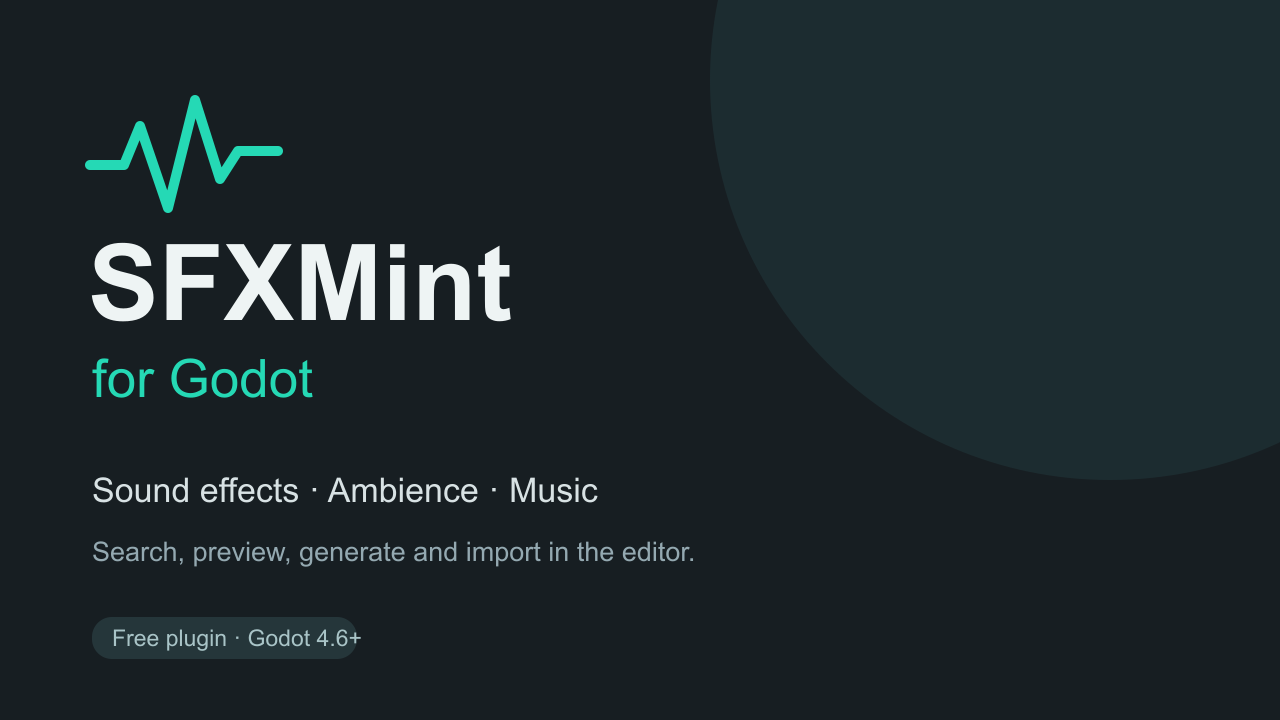
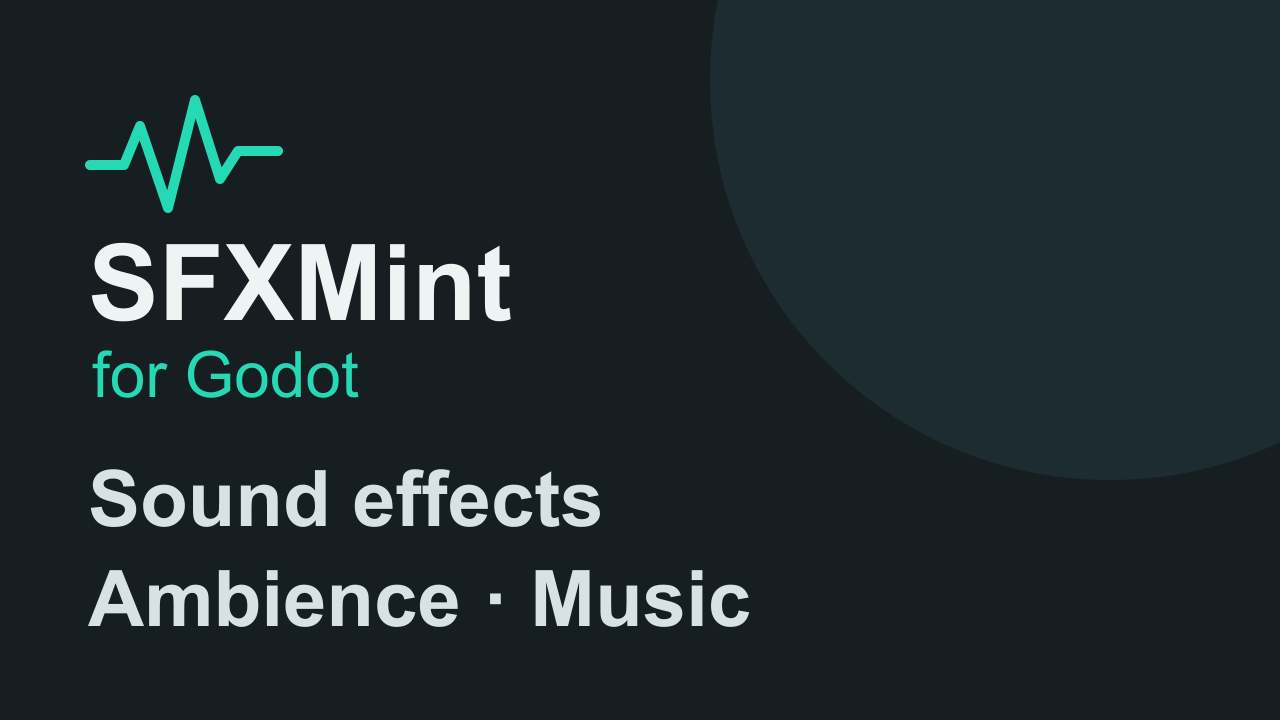
fix: release binary-free Godot 0.2.3 packages

Changed region(s): [[0.0625, 0.6417, 0.5938, 0.9167], [0.0625, 0.4889, 0.2812, 0.55]]

diff --git a/scripts/test_package.py b/scripts/test_package.py
@@ -20,8 +20,15 @@ with zipfile.ZipFile(ROOT/f'dist/sfxmint-godot-{version}-plugin.zip') as z:
     assert 'addons/sfxmint/plugin.cfg' in z.namelist()
     assert 'addons/sfxmint/README.md' in z.namelist()
     assert all(n.startswith('addons/sfxmint/') for n in z.namelist()), 'plugin must not install files over a project root'
-    assert len([n for n in z.namelist() if '/bin/sfxmint-credentials-' in n]) == 5
+    assert not any('/bin/' in n for n in z.namelist())
     assert z.read('addons/sfxmint/panel.gd') == (ROOT/'addons/sfxmint/panel.gd').read_bytes()
+for kind in ['plugin', 'example']:
+    with zipfile.ZipFile(ROOT/f'dist/sfxmint-godot-{version}-{kind}.zip') as z:
+        for entry in z.infolist():
+            assert not ((entry.external_attr >> 16) & 0o111), entry.filename
+            assert Path(entry.filename).suffix.lower() not in {'.exe', '.dll', '.so', '.dylib', '.a', '.o', '.wasm', '.pck'}, entry.filename
+            assert not z.read(entry)[:4] in {b'\x7fELF', b'\xcf\xfa\xed\xfe', b'\xce\xfa\xed\xfe', b'\xfe\xed\xfa\xcf', b'\xfe\xed\xfa\xce', b'\xca\xfe\xba\xbe', b'\xbe\xba\xfe\xca', b'\x00asm'}, entry.filename
+            assert not z.read(entry).startswith(b'MZ'), entry.filename
 with tempfile.TemporaryDirectory(prefix='sfxmint-plugin-install-') as folder:
     target = Path(folder)
     with zipfile.ZipFile(ROOT/f'dist/sfxmint-godot-{version}-plugin.zip') as z:
@@ -45,4 +52,4 @@ with tempfile.TemporaryDirectory(prefix='sfxmint-zip-install-') as folder:
         print(r.stdout)
         assert r.returncode == 0 and 'SCRIPT ERROR:' not in r.stdout and 'Parse Error:' not in r.stdout
         if args[0] == '--script': assert 'PACKAGED OFFLINE DEMO: PASS' in r.stdout
-print('PACKAGE INSTALL RESULT: PASS; five helpers included; clean import; demo plays after addon removal')
+print('PACKAGE INSTALL RESULT: PASS; no precompiled binaries; clean import; demo plays after addon removal')

diff --git a/scripts/package.py b/scripts/package.py
@@ -11,24 +11,20 @@ OUT = ROOT/'dist'
 config = configparser.ConfigParser()
 config.read(ROOT/'addons/sfxmint/plugin.cfg')
 VERSION = config['plugin']['version'].strip('"')
-REQUIRED = ['macos-arm64', 'macos-x86_64', 'windows-x86_64.exe', 'linux-x86_64', 'linux-arm64']
 
 def put(z, src, name):
     info = ZipInfo(name, (2026, 10, 23, 0, 0, 0))
     info.compress_type = ZIP_DEFLATED
     info.create_system = 3
-    mode = 0o755 if src.name.startswith('sfxmint-credentials-') else 0o644
-    info.external_attr = (0o100000 | mode) << 16
+    info.external_attr = 0o100644 << 16
     data = src.read_bytes()
     if name == "project.godot":
         data = data.replace(b'"4.7"', b'"4.6"')
     z.writestr(info, data)
 
-files = [(p, p.relative_to(ROOT).as_posix()) for p in sorted((ROOT/'addons/sfxmint').rglob('*')) if p.is_file() and (p.suffix in ['.gd', '.uid', '.cfg', '.md', '.txt', '.png'] or p.name == '.gdignore' or p.name.startswith('sfxmint-credentials-'))]
-for suffix in REQUIRED:
-    binary = ROOT/'addons/sfxmint/bin'/('sfxmint-credentials-'+suffix)
-    if not binary.is_file():
-        raise SystemExit(f'Missing required binary: {binary.name}. Build it before packaging.')
+# Asset Store downloads must not bundle precompiled programs, even when helpers
+# have been built locally. Ship only the addon's source, notices and logo.
+files = [(p, p.relative_to(ROOT).as_posix()) for p in sorted((ROOT/'addons/sfxmint').rglob('*')) if p.is_file() and 'bin' not in p.relative_to(ROOT/'addons/sfxmint').parts and p.suffix in ['.gd', '.uid', '.cfg', '.md', '.txt', '.png']]
 for name in ['README.md', 'LICENSE', 'THIRD_PARTY_NOTICES.txt', 'addons/sfxmint/README.md']:
     if not (ROOT/name).is_file():
         raise SystemExit(f'Missing documentation: {name}')

diff --git a/scripts/test_editor.py b/scripts/test_editor.py
@@ -4,13 +4,18 @@ import argparse, os, pathlib, shutil, subprocess, tempfile, zipfile
 ROOT = pathlib.Path(__file__).resolve().parents[1]
 p = argparse.ArgumentParser()
 p.add_argument('--godot', required=True)
+p.add_argument('--archive', type=pathlib.Path, help='Test the delivered plugin ZIP instead of local addon files.')
 a = p.parse_args()
 ART = ROOT/'tests/artifacts'
 ART.mkdir(exist_ok=True)
 env = dict(os.environ, SFXMINT_TEST_ORIGIN='http://127.0.0.1:8797')
 with tempfile.TemporaryDirectory(prefix='sfxmint-editor-') as folder:
     target = pathlib.Path(folder)
-    shutil.copytree(ROOT/'addons', target/'addons')
+    if a.archive:
+        with zipfile.ZipFile(a.archive) as archive:
+            archive.extractall(target)
+    else:
+        shutil.copytree(ROOT/'addons', target/'addons')
     shutil.copytree(ROOT/'example', target/'example', ignore=shutil.ignore_patterns('.godot','addons','audio'))
     project = (ROOT/'project.godot').read_text().replace('"4.7"', '"4.6"').replace('"res://addons/sfxmint/plugin.cfg")','"res://addons/sfxmint/plugin.cfg", "res://addons/smoke/plugin.cfg")')
     (target/'project.godot').write_text(project)

diff --git a/scripts/build_helpers.py b/scripts/build_helpers.py
@@ -22,6 +22,7 @@ triple = a.target + ('.2.28' if a.zig and 'linux' in a.target else '')
 subprocess.run(['cargo', 'zigbuild' if a.zig else 'build', '--release', '--locked', '--manifest-path', str(ROOT/'credential-helper/Cargo.toml'), '--target', triple], check=True)
 source = ROOT/'credential-helper/target'/a.target/'release'/('sfxmint-credentials.exe' if 'windows' in a.target else 'sfxmint-credentials')
 dest = ROOT/'addons/sfxmint/bin'/('sfxmint-credentials-'+TARGETS[a.target])
+dest.parent.mkdir(parents=True, exist_ok=True)
 shutil.copy2(source, dest)
 dest.chmod(0o755)
 print(dest)

diff --git a/README.md b/README.md
@@ -8,7 +8,7 @@ Search, audition, generate and import audio without leaving the Godot editor. A 
 
 ## Install
 
-1. Download **sfxmint-godot-0.2.2-plugin.zip** from [Releases](https://github.com/flreey/sfxmint-godot/releases/latest).
+1. Download **sfxmint-godot-0.2.3-plugin.zip** from [Releases](https://github.com/flreey/sfxmint-godot/releases/latest).
 2. Extract it into your Godot project so `addons/sfxmint/plugin.cfg` exists. You can also import the ZIP using Godot's asset installation UI.
 3. Enable **Project → Project Settings → Plugins → SFXMint**.
 4. Open the **SFXMint** bottom dock and drag its upper edge to give it enough space.
@@ -37,9 +37,9 @@ Compare the returned candidates with one preview player, star favorites, choose 
 
 ## Accounts and privacy
 
-**Remember on this device** uses a small bundled credential helper to access macOS Keychain, Windows Credential Manager or Linux Secret Service. Keys are never placed in project files. Uncheck Remember for a session-only connection. You can also supply `SFXMINT_API_KEY` through the Godot process environment.
+Release ZIPs contain no precompiled programs. Account connections last for the current editor session; **Remember on this device** is disabled when no locally built credential helper is installed. Keys are never placed in project files. You can also supply `SFXMINT_API_KEY` through the Godot process environment.
 
-Helpers run only inside the editor, use standard input/output, and have no network behavior. Their Rust source and locked dependencies are in `credential-helper/`. Unsupported platforms or unavailable credential stores fall back to a session-only connection. Helpers are excluded from game exports.
+Developers can optionally build a credential helper from the included Rust source for macOS Keychain, Windows Credential Manager or Linux Secret Service. Helpers run only inside the editor, use standard input/output, and have no network behavior. Their Rust source and locked dependencies are in `credential-helper/`. Unsupported platforms or unavailable credential stores fall back to a session-only connection. Helpers are excluded from game exports.
 
 Search descriptions are sent to SFXMint for matching. Generation descriptions and explicitly uploaded/recorded source audio are sent to SFXMint when you request those actions. API keys are sent only to the SFXMint API, never to audio download hosts. Signed audio links are refreshed before download and redirects are refused. SFXMint identifies plugin requests through its client attribution. [SFXMint privacy policy](https://sfxmint.com/privacy).
 
@@ -63,13 +63,13 @@ AI coding tools assisted development of the plugin and documentation. Screenshot
 
 Godot **4.6 and 4.7** are tested on **macOS ARM64**, including native editor import, preview state, ZIP installation and offline demo playback. A real SFXMint Sound generation/download/import has also been verified.
 
-The releases include helpers for macOS ARM64/x64, Windows x64 and Linux ARM64/x64. Linux helpers require glibc 2.28+ and a working Secret Service. Intel macOS, Windows and Linux helpers were cross-compiled; native UI and credential integration on those systems have not yet been verified. Windows ARM64 and musl-only Linux do not have a bundled helper and use session-only connection.
+Release ZIPs use session-only connections on all platforms. Optional helper source supports macOS ARM64/x64, Windows x64 and Linux ARM64/x64; Linux requires a working Secret Service. Native UI and credential integration on Intel macOS, Windows and Linux have not yet been verified.
 
 Microphone capture/OS permission behavior and a complete light-theme/manual interaction pass remain unverified. See [VERIFICATION.md](VERIFICATION.md) for tested behavior and limits.
 
 ## Example
 
-Extract **sfxmint-godot-0.2.2-example.zip**, open its `project.godot`, and run `example/demo.tscn`. Press **Pick up coin** or Space. A counter increases and the included local tone plays. You can import another sound and run the same scene with it. The example keeps working after removal of the addon.
+Extract **sfxmint-godot-0.2.3-example.zip**, open its `project.godot`, and run `example/demo.tscn`. Press **Pick up coin** or Space. A counter increases and the included local tone plays. You can import another sound and run the same scene with it. The example keeps working after removal of the addon.
 
 ## Develop
 
@@ -95,11 +95,12 @@ python3 scripts/test_editor.py --godot "$GODOT"
 cargo test --manifest-path credential-helper/Cargo.toml
 ```
 
-The fixture server is loopback-only, uses synthetic keys and never calls production generation. Native editor tests require the credential helper for the current platform. Build all five helper targets before packaging:
+The fixture server is loopback-only, uses synthetic keys and never calls production generation. Native editor tests support both session-only installs and optional locally built helpers. Packaging never includes helpers and does not require Rust or a helper build:
 
 ```sh
 python3 scripts/package.py
 python3 scripts/test_package.py --godot "$GODOT"
+python3 scripts/test_editor.py --godot "$GODOT" --archive dist/sfxmint-godot-0.2.3-plugin.zip
 ```
 
 The example source keeps its fixture under `example/audio/`; packaging installs it at `audio/sfxmint/`. Use the example ZIP for the ready-to-run project. Report problems through [GitHub Issues](https://github.com/flreey/sfxmint-godot/issues), with your Godot version and operating system. Never include an API key or signed download URL in a report.

diff --git a/addons/sfxmint/README.md b/addons/sfxmint/README.md
@@ -1,4 +1,4 @@
-# SFXMint for Godot 0.2.2
+# SFXMint for Godot 0.2.3
 
 Search, audition, generate and import Sound, Ambience and BGM from a native Godot bottom dock. Requires Godot 4.6 or later.
 
@@ -11,7 +11,7 @@ Search, audition, generate and import Sound, Ambience and BGM from a native Godo
 
 The description is directly editable. Select a candidate/version, listen, then import. Preview and import downloads display their state. Imported audio remains playable offline when this plugin is removed.
 
-The hosted API is `https://sfxmint.com`; users do not deploy a backend. Optional credential helpers in `bin/` save keys in the operating system credential store. Keys are never stored in project files. Uncheck **Remember on this device** for a session-only connection.
+The hosted API is `https://sfxmint.com`; users do not deploy a backend. Release ZIPs contain no precompiled programs and use session-only account connections. **Remember on this device** is disabled unless you separately build a credential helper from source into `bin/`. Keys are never stored in project files.
 
 ## Documentation and support
 
@@ -24,4 +24,4 @@ The hosted API is `https://sfxmint.com`; users do not deploy a backend. Optional
 
 Plugin code is MIT; see `LICENSE.txt` and `THIRD_PARTY_NOTICES.txt`. AI coding tools assisted plugin development. Original SFXMint audio is AI-generated/CC0; uploaded-source derivatives retain source-specific rights. Check each imported file's manifest. The example tone is procedural audio.
 
-Native behavior is verified on macOS ARM64 with Godot 4.6/4.7. Helpers for other listed desktop targets are cross-compiled; native OS behavior there remains unverified. Microphone permission/capture behavior is not included in the verified feature set.
+Native behavior is verified on macOS ARM64 with Godot 4.6/4.7. Native OS behavior on other desktop targets remains unverified. Microphone permission/capture behavior is not included in the verified feature set.

diff --git a/VERIFICATION.md b/VERIFICATION.md
@@ -1,3 +1,17 @@
+# Verification — 0.2.3 review fix, 2026-10-24
+
+- Both installation ZIPs contain no precompiled credential helpers. Archive checks cover executable permissions, binary extensions and PE/ELF/Mach-O/WASM signatures.
+- Packaging in a clean source tree without `bin/` produces byte-identical archives to packaging with all five helpers present locally.
+- Godot 4.6 and 4.7 on macOS ARM64: freshly extracted plugin and example ZIPs import successfully. Each version passes 47 native editor assertions against the delivered plugin ZIP, plus offline demo playback and game export isolation.
+- The no-helper UI defaults to session-only connection and keeps Remember disabled after a connection attempt. Fixture account connection, Sound/Ambience/BGM generation, preview and import pass without helpers.
+- Thumbnail footer removed; category type increased from 34px to 78px and split into two lines. SVG/PNG are synchronized; inspected at 320×180.
+- The originating repository full release suite (`npm run test:all`) passed in an isolated checkout: 130/130 JavaScript test files, keyword/package/localization checks, and 611 growth tests (3 skipped). Public source reproduces the tested ZIPs byte for byte.
+- Source and both ZIPs passed scans for known private credentials and non-fixture API keys.
+
+This release was verified with local fixtures; no new production generation was performed. Windows/Linux native behavior was not retested. Existing engine shutdown resource/scan warnings remain in the logs; assertions and process exit codes pass, with no script/parse errors.
+
+The following record describes the previous release and is retained as historical evidence. Its bundled-helper statements do not apply to 0.2.3.
+
 # Verification — 0.2.2
 
 This record separates automated fixture checks, native platform checks and production verification.

diff --git a/CHANGELOG.md b/CHANGELOG.md
@@ -1,5 +1,12 @@
 # Changelog
 
+## 0.2.3 — 2026-10-24
+
+- Remove all precompiled credential helpers from both download ZIPs for Asset Store review. Packaging works without building helpers.
+- Use session-only account connections by default in release ZIPs; disable unavailable device storage. Optional helper source remains available for local builds.
+- Remove the thumbnail footer and enlarge the sound category text for small previews.
+- Validate delivered ZIPs for binary signatures and executable permissions, and run native editor checks against the extracted plugin archive.
+
 ## 0.2.2 — 2026-10-23
 
 First public release.
